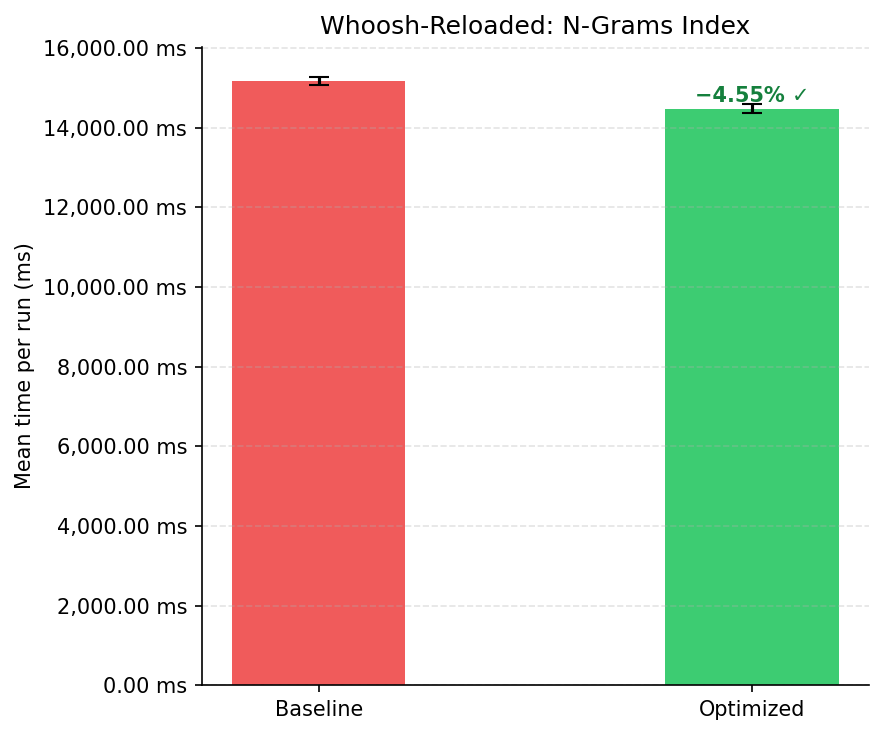
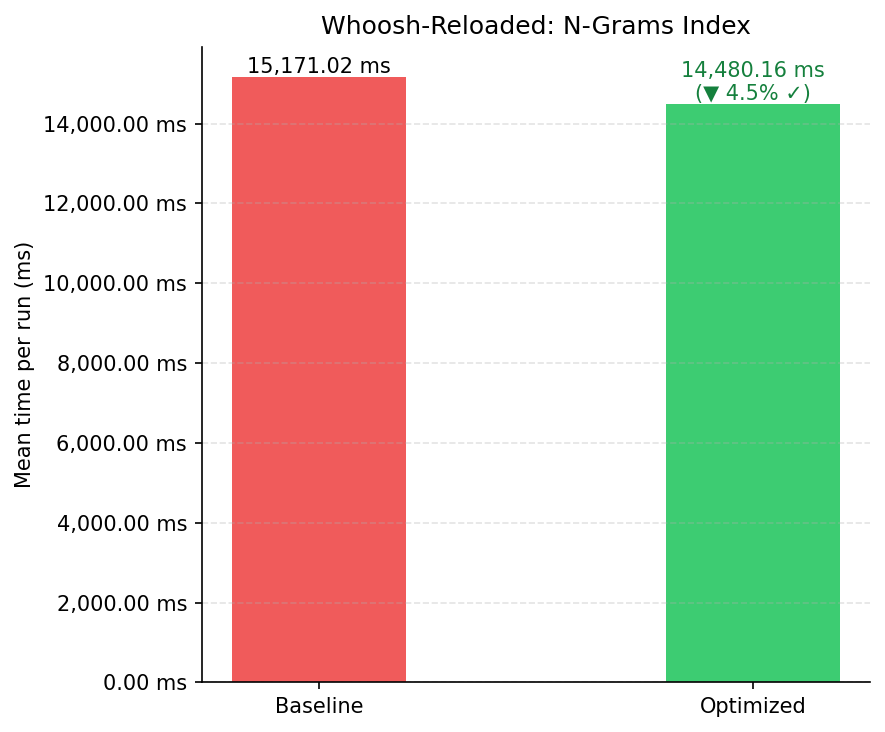
docs(analysis): update chart annotations to show absolute times and adjust titles

diff --git a/analysis/generate_plots.py b/analysis/generate_plots.py
@@ -2,7 +2,6 @@
 generate_plots.py
 
 Generates all benchmark comparison charts for the EDA OSS Performance project.
-All labels and titles are in English.
 
 Usage:
     python analysis/generate_plots.py
@@ -76,13 +75,15 @@ def plot_tinydb_bloom_filter() -> None:
     fig, ax = plt.subplots(figsize=(8, 5))
     bars_b = ax.bar(x - width / 2, baseline_means,  width, label="Baseline",  color=COLORS["baseline"],  alpha=ALPHA_BAR)
     bars_o = ax.bar(x + width / 2, optimized_means, width, label="Optimized", color=COLORS["optimized"], alpha=ALPHA_BAR)
-    ax.errorbar(x - width / 2, baseline_means,  yerr=baseline_stds,  color="#b91c1c", **ERROR_KWARGS)
-    ax.errorbar(x + width / 2, optimized_means, yerr=optimized_stds, color="#15803d", **ERROR_KWARGS)
+    # Add time values on top of baseline bars
+    for bar, val in zip(bars_b, baseline_means):
+        ax.text(bar.get_x() + bar.get_width() / 2, bar.get_height(),
+                f"{val:,.0f} ms", ha="center", va="bottom", fontsize=8)
 
-    # Improvement annotations above optimized bars
-    for bar, pct in zip(bars_o, improvements):
-        ax.text(bar.get_x() + bar.get_width() / 2, bar.get_height() + max(baseline_stds) * 0.02,
-                f"−{pct:.1f}%", ha="center", va="bottom", fontsize=8, fontweight="bold", color="#15803d")
+    # Add time values on top of optimized bars
+    for bar, val, pct in zip(bars_o, optimized_means, improvements):
+        ax.text(bar.get_x() + bar.get_width() / 2, bar.get_height(),
+                f"{val:,.0f} ms\n(▼ {pct:.1f}%)", ha="center", va="bottom", fontsize=8, color="#15803d")
 
     ax.set_yscale("log")
     ax.yaxis.set_major_formatter(ticker.FuncFormatter(lambda v, _: f"{v:,.0f} ms"))
@@ -117,12 +118,13 @@ def plot_tinydb_btree() -> None:
     fig, ax = plt.subplots(figsize=(8, 5))
     bars_b = ax.bar(x - width / 2, baseline_means,  width, label="Baseline",  color=COLORS["baseline"],  alpha=ALPHA_BAR)
     bars_o = ax.bar(x + width / 2, optimized_means, width, label="Optimized", color=COLORS["optimized"], alpha=ALPHA_BAR)
-    ax.errorbar(x - width / 2, baseline_means,  yerr=baseline_stds,  color="#b91c1c", **ERROR_KWARGS)
-    ax.errorbar(x + width / 2, optimized_means, yerr=optimized_stds, color="#15803d", **ERROR_KWARGS)
+    for bar, val in zip(bars_b, baseline_means):
+        ax.text(bar.get_x() + bar.get_width() / 2, bar.get_height(),
+                f"{val:,.0f} ms", ha="center", va="bottom", fontsize=8)
 
-    for bar, pct in zip(bars_o, improvements):
-        ax.text(bar.get_x() + bar.get_width() / 2, bar.get_height() + max(baseline_stds) * 0.02,
-                f"−{pct:.1f}%", ha="center", va="bottom", fontsize=8, fontweight="bold", color="#15803d")
+    for bar, val, pct in zip(bars_o, optimized_means, improvements):
+        ax.text(bar.get_x() + bar.get_width() / 2, bar.get_height(),
+                f"{val:,.0f} ms\n(▼ {pct:.1f}%)", ha="center", va="bottom", fontsize=8, color="#15803d")
 
     ax.yaxis.set_major_formatter(ticker.FuncFormatter(lambda v, _: f"{v:,.0f} ms"))
     ax.set_xticks(x)
@@ -178,7 +180,7 @@ def _plot_chainmap(json_path: str, title: str, out_name: str) -> None:
 def plot_chainmap_no_interp() -> None:
     _plot_chainmap(
         os.path.join(RESULTS_DIR, "python-dotenv", "result_no_interpolation_dotenv_chainmap.json"),
-        "python-dotenv: ChainMap (no interpolation)",
+        "Python-dotenv: ChainMap (no interpolation)",
         "dotenv_chainmap_no_interpolation.png",
     )
 
@@ -189,7 +191,7 @@ def plot_chainmap_no_interp() -> None:
 def plot_chainmap_interp() -> None:
     _plot_chainmap(
         os.path.join(RESULTS_DIR, "python-dotenv", "result_interpolation_dotenv_chainmap.json"),
-        "python-dotenv: ChainMap (with interpolation)",
+        "Python-dotenv: ChainMap (with interpolation)",
         "dotenv_chainmap_interpolation.png",
     )
 
@@ -208,14 +210,12 @@ def plot_str_count() -> None:
     fig, ax = plt.subplots(figsize=(6, 5))
     bars = ax.bar(["Baseline", "Optimized"], [b_mean, o_mean],
                   color=[COLORS["baseline"], COLORS["optimized"]], alpha=ALPHA_BAR, width=0.4)
-    ax.errorbar([0, 1], [b_mean, o_mean], yerr=[b_std, o_std],
-                color="black", **ERROR_KWARGS)
-    ax.text(1, o_mean + o_std + 100, f"−{improvement:.1f}%",
-            ha="center", va="bottom", fontsize=10, fontweight="bold", color="#15803d")
+    ax.text(0, b_mean, f"{b_mean:,.0f} ms", ha="center", va="bottom", fontsize=10)
+    ax.text(1, o_mean, f"{o_mean:,.0f} ms\n(▼ {improvement:.1f}%)", ha="center", va="bottom", fontsize=10, color="#15803d")
 
     ax.yaxis.set_major_formatter(ticker.FuncFormatter(lambda v, _: f"{v:,.0f} ms"))
     ax.set_ylabel("Mean full-file parse time (ms)")
-    ax.set_title("python-dotenv: str.count Parser")
+    ax.set_title("Python-dotenv: str.count Parser")
     fig.tight_layout()
     save(fig, "python-dotenv", "dotenv_str_count_newline.png")
 
@@ -237,14 +237,10 @@ def _plot_whoosh_simple(json_path: str, title: str, ylabel: str, out_subdir: str
     fig, ax = plt.subplots(figsize=(6, 5))
     ax.bar(["Baseline", "Optimized"], [b_mean, o_mean],
            color=[COLORS["baseline"], COLORS["optimized"]], alpha=ALPHA_BAR, width=0.4)
-    ax.errorbar([0, 1], [b_mean, o_mean], yerr=[b_std, o_std],
-                color="black", **ERROR_KWARGS)
-
-    label = f"−{improvement:.2f}%"
-    label += " ✓" if confirmed else " *"
-    ax.text(1, o_mean + o_std * 0.3 + (b_mean - o_mean) * 0.05,
-            label, ha="center", va="bottom", fontsize=10, fontweight="bold",
-            color="#15803d" if confirmed else "#ca8a04")
+    ax.text(0, b_mean, f"{b_mean:,.2f} ms", ha="center", va="bottom", fontsize=10)
+    label = f"{o_mean:,.2f} ms\n(▼ {improvement:.1f}%"
+    label += " ✓)" if confirmed else " *)"
+    ax.text(1, o_mean, label, ha="center", va="bottom", fontsize=10, color="#15803d" if confirmed else "#ca8a04")
 
     ax.yaxis.set_major_formatter(ticker.FuncFormatter(lambda v, _: f"{v:,.2f} ms"))
     ax.set_ylabel(ylabel)
